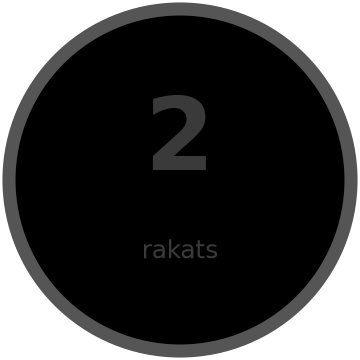
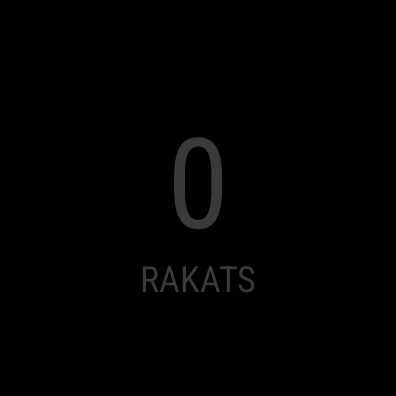
Real watch screenshots in 4 languages, shorter TR/ID finish text
Finish line overflowed the round screen in Turkish and Indonesian.

diff --git a/README.md b/README.md
@@ -10,7 +10,7 @@ You start it before the takbir and forget about it. The watch follows the postur
 |:---:|:---:|:---:|:---:|
 | <img src="docs/img/screen_start.png" width="180" alt="Start screen"> | <img src="docs/img/screen_counting.png" width="180" alt="Counting screen"> | <img src="docs/img/screen_done.png" width="180" alt="Finished screen"> | <img src="docs/img/screen_tile.png" width="180" alt="Tile"> |
 
-The images are drawn mockups of the real screens.
+Screenshots from a Galaxy Watch FE (the tile image is a mockup). Store screenshots for all four languages are in `docs/play/shots/`.
 
 ## Features
 
